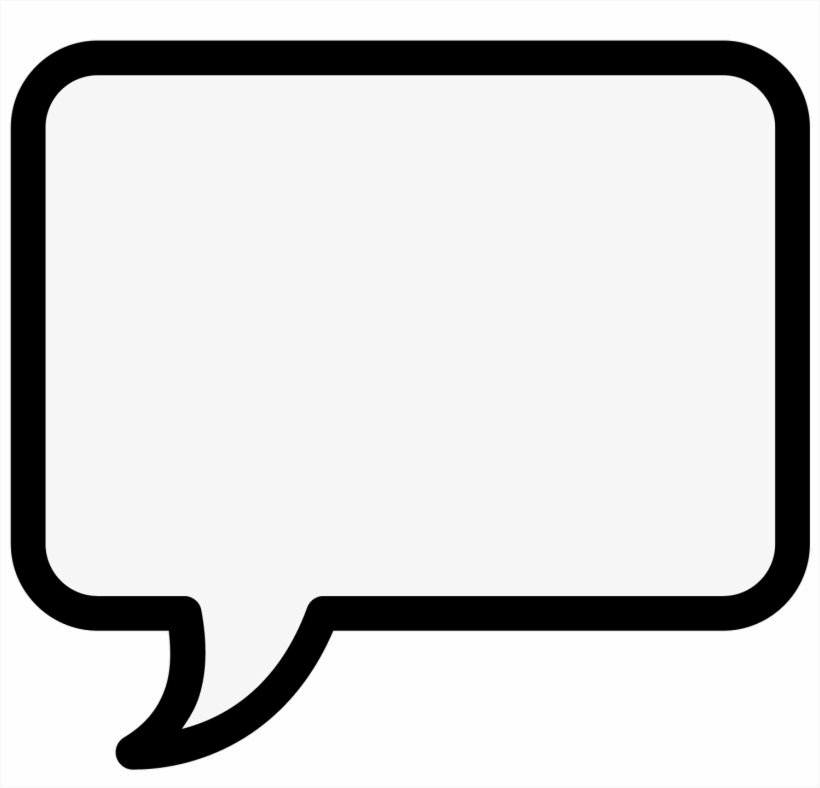
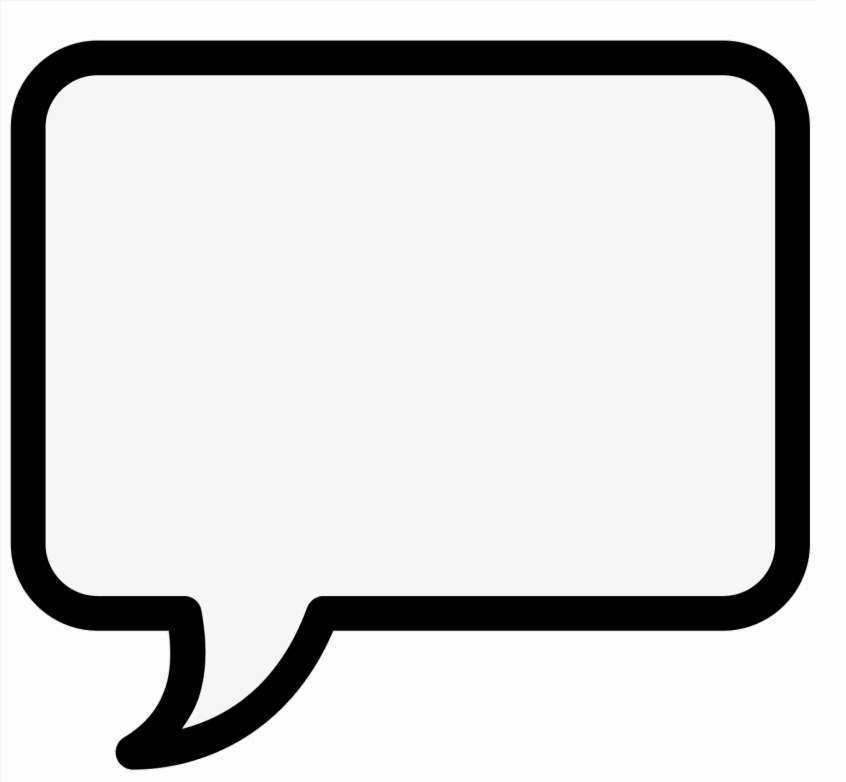
Changes to bubbles

diff --git a/src/sample/Main.java b/src/sample/Main.java
@@ -1108,8 +1108,26 @@ public class Main extends Application {
                 try {
                     final Image image = new Image(new FileInputStream(imageFile), 150, 150, true,
                             true);
-                    imageView = new ImageView(image);
-                    //imageView.setFitWidth(150);
+                    int width = (int) image.getWidth();
+                    int height = (int) image.getHeight();
+
+                    WritableImage writableImage = new WritableImage(width, height);
+
+                    PixelReader pixelReader = image.getPixelReader();
+                    PixelWriter pixelWriter = writableImage.getPixelWriter();
+
+                    for (int y = 0; y < height; y++) {
+                        for (int x = 0; x < width; x++) {
+                            Color color = pixelReader.getColor(x, y);
+
+                            if (color.equals(Color.rgb(255, 254, 255))) {
+                                pixelWriter.setColor(x, y, Color.rgb(0, 0, 0, 0));
+                            }
+                            else
+                                pixelWriter.setColor(x, y, color);
+                        }
+                    }
+                    imageView = new ImageView(writableImage);
                     imageView.setPickOnBounds(true);
                     imageView.setOnMouseClicked(new EventHandler<MouseEvent>() {
 
@@ -1119,7 +1137,7 @@ public class Main extends Application {
                             if (mouseEvent.getButton().equals(MouseButton.PRIMARY)) {
 
                                 if (mouseEvent.getClickCount() == 1) {
-                                    ((ImageView)bubbleDisplay.getChildren().get(0)).setImage(image);
+                                    ((ImageView)bubbleDisplay.getChildren().get(0)).setImage(writableImage);
                                     bubbleName = imageFile.getPath().substring(19);
                                 }
                             }
@@ -1128,6 +1146,8 @@ public class Main extends Application {
                 } catch (FileNotFoundException ex) {
                     ex.printStackTrace();
                 }
+
+
                 return imageView;
             }
         });
